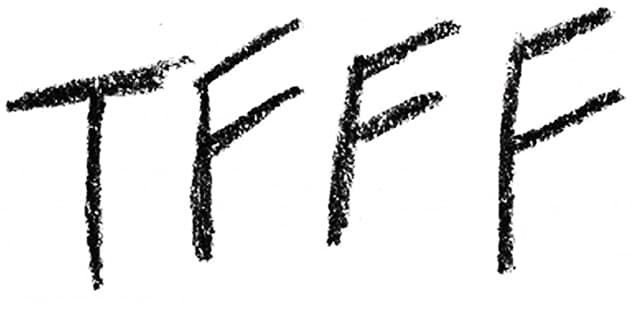
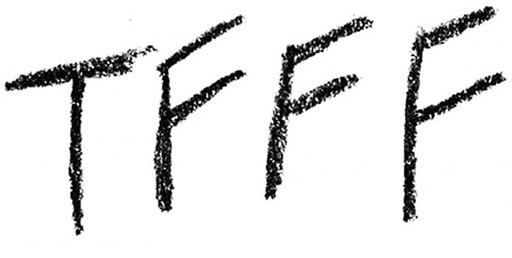
Add The Marginal Film Festival (#239)
* Add The Marginal Film Festival

The London edition of Brazil's Mostra do Filme Marginal, 1-5 December.
Matched on "Marginal Film Festival" and "Marginal Film Session" in a
title, and on OutSavvy's "Presented by The Marginal Film Festival" note.

Claude-Session: https://claude.ai/code/session_01GBhsxSSwSm7VSbySSSR1iT

* Add The Marginal Film Festival logo

Claude-Session: https://claude.ai/code/session_01GBhsxSSwSm7VSbySSSR1iT

* Resize festival logos over the 512px limit

Run scripts/resize-festival-images.js over the six logos it had not yet
been run on.

Claude-Session: https://claude.ai/code/session_01GBhsxSSwSm7VSbySSSR1iT

---------

Changed region(s): [[0.6875, 0.062, 0.7188, 0.124]]

diff --git a/src/components/festivals/marginal-film-festival.tsx b/src/components/festivals/marginal-film-festival.tsx
@@ -1,0 +1,29 @@
+function FestivalBlurb() {
+  return (
+    <section>
+      <p>
+        The Marginal Film Festival is the London edition of Brazil&apos;s Mostra
+        do Filme Marginal, a festival of independent film founded in 2017 that
+        describes itself as &ldquo;not competitive; it aims at
+        integration&rdquo;. It first came to London in 2025 and returns for five
+        evenings of screenings across East, Central and South London.
+      </p>
+      <p>
+        The programme centres films about marginalised people and the struggles
+        they face. The Mostra&apos;s sixth edition in Brazil is themed
+        &ldquo;Cinema and Environmental Emergency: Images of a Possible
+        Future&rdquo;, and the London sessions follow it, pairing shorts and
+        features on mining, land rights and colonial legacies across Brazil and
+        Angola. Screenings are free, with Pay What You Can and solidarity
+        tickets.
+      </p>
+    </section>
+  );
+}
+
+export const seoDescription =
+  "the London edition of Brazil's Mostra do Filme Marginal, screening independent films about marginalised people, land and environmental justice";
+export const seoHighlights =
+  "free evening screenings of Brazilian and Lusophone shorts and features across East, Central and South London";
+
+export default FestivalBlurb;

diff --git a/src/data/festivals.ts b/src/data/festivals.ts
@@ -1087,4 +1087,27 @@ export const FESTIVALS: Festival[] = [
       },
     ],
   },
+  {
+    id: "marginal-film-festival",
+    name: "The Marginal Film Festival",
+    url: "https://www.instagram.com/marginal_film_festival/",
+    aliases: ["mostra-do-filme-marginal"],
+    matchers: [
+      {
+        // Matches "The Marginal Film Festival – Opening Night: …" at the Cinema
+        // Museum and "The Marginal Film Festival Session IV – …"
+        [FilterId.ShowingTitleSearch]: "Marginal Film Festival",
+      },
+      {
+        // Matches "Marginal Film Session II: …" and "Marginal Film Session III:
+        // …", the festival's own OutSavvy listings at LARC and Farr's Dalston
+        [FilterId.ShowingTitleSearch]: "Marginal Film Session",
+      },
+      {
+        // OutSavvy notes each of the festival's events "Presented by The
+        // Marginal Film Festival"
+        [FilterId.PerformanceNotesSearch]: "Marginal Film Festival",
+      },
+    ],
+  },
 ];

diff --git a/src/app/changelog/data.tsx b/src/app/changelog/data.tsx
@@ -95,6 +95,21 @@ export const CHANGELOG: ChangelogDay[] = [
           </>
         ),
       },
+      {
+        tag: "New festival",
+        body: ({ Festival }) => (
+          <>
+            Added{" "}
+            <Festival
+              name="The Marginal Film Festival"
+              url="https://www.instagram.com/marginal_film_festival/"
+            />
+            , the London edition of Brazil&apos;s Mostra do Filme Marginal: free
+            evenings of independent Brazilian and Lusophone cinema on land,
+            extraction and resistance, from 1 to 5 December.
+          </>
+        ),
+      },
     ],
   },
   {

diff --git a/src/data/festivals.test.ts b/src/data/festivals.test.ts
@@ -50,6 +50,8 @@ const OTHER_NOTES: [note: string, festivalId: string][] = [
   ],
   ["Part of Native Spirit Festival", "native-spirit-festival"],
   ["Part of Armenian Film Festival 2026", "armenian-film-festival"],
+  // OutSavvy's organiser note
+  ["Presented by The Marginal Film Festival", "marginal-film-festival"],
 ];
 
 const matchesNote = (festivalId: string, note: string): boolean => {
